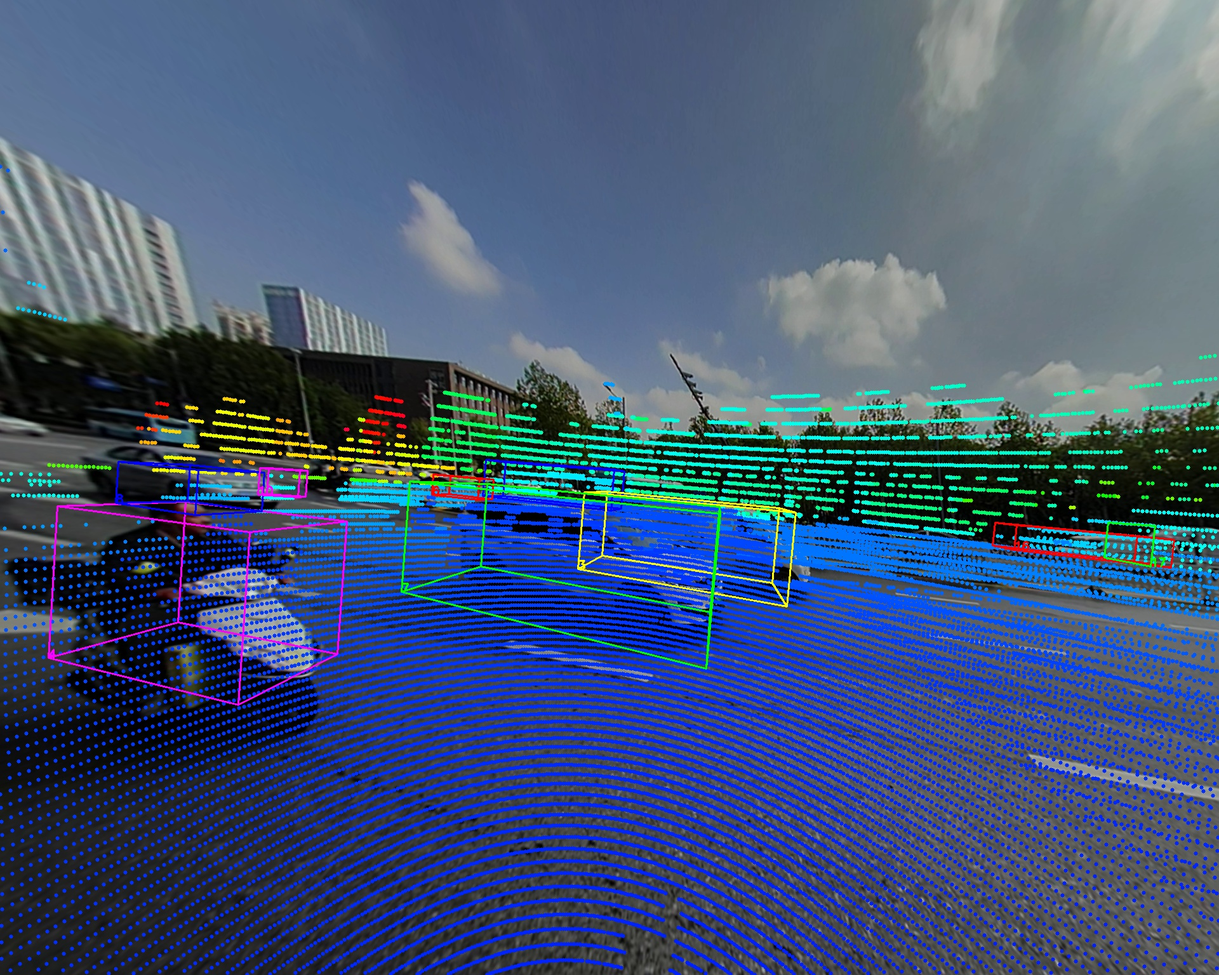
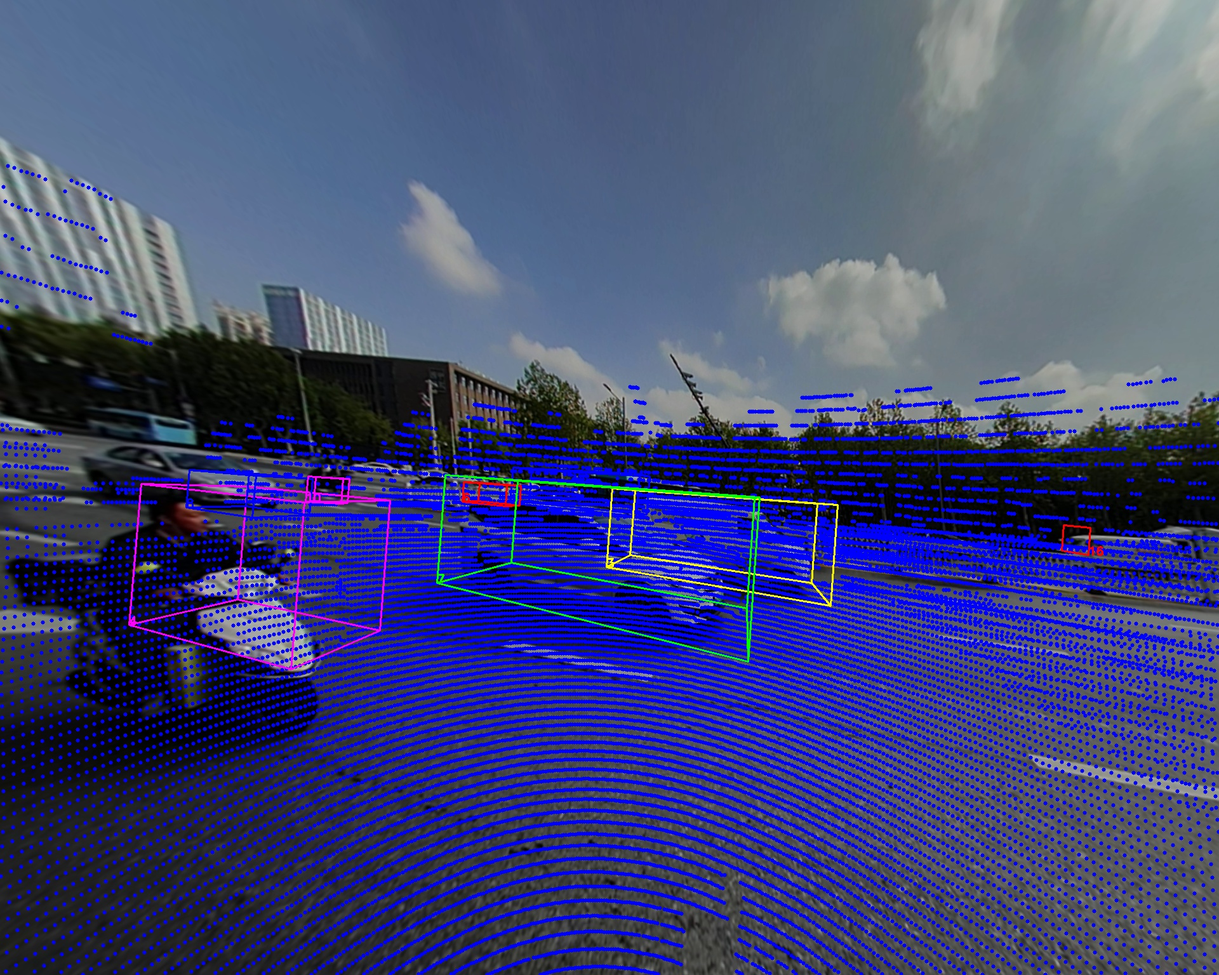
10.10

diff --git a/output/final-extrinsic.py b/output/final-extrinsic.py
@@ -53,8 +53,8 @@ lidar2m32 = load_json('lidar2m32.json')
 
 # 定义键和输出路径列表
 camera_keys = ["CAM_FRONT_8M", "CAM_FRONT_3M", "CAM_LEFT_3M", "CAM_RIGHT_3M","CAM_BACK_3MH"]
-lidar_keys = ["LIDAR_FRONT","LIDAR_BACK"]
-output_keys = ["CAM_FRONT_8M", "CAM_FRONT_3M", "CAM_LEFT_3M", "CAM_RIGHT_3M","CAM_BACK_3MH","LIDAR_FRONT", "LIDAR_BACK","LIDAR_ZHU"]
+lidar_keys = ["LIDAR_FRONT","LIDAR_REAR"]
+output_keys = ["CAM_FRONT_8M", "CAM_FRONT_3M", "CAM_LEFT_3M", "CAM_RIGHT_3M","CAM_BACK_3MH","LIDAR_FRONT", "LIDAR_REAR","LIDAR_ZHU"]
 output_path = "final-extrinsic.json"
 
 # 清空输出文件

diff --git a/camera_to_lidar/lidar2camera_calib.md b/camera_to_lidar/lidar2camera_calib.md
@@ -146,7 +146,7 @@ python transfer-files.py --sort fisheye-left
 
 --sort 为要进行标定的相机名称
 
-### 3.1手动标定
+### 3.1标定代码编译
 
 进入camera_to_lidar/lidar2camera/manual_calib文件夹，如果需要重新编译
 
@@ -172,13 +172,19 @@ docker run -it \
 xiaokyan/opencalib:v1
 ```
 
-先进入camera_to_lidar/lidar2camera/auto_calib文件夹，运行下列程序选择图片的2d特征点，同时打开cloudcompare选择对应的三维点
+同理进入camera_to_lidar/lidar2camera/auto_calib文件夹进行编译
+
+
+
+### 3.2 标定流程
+
+1.先进入camera_to_lidar/lidar2camera/auto_calib文件夹，运行下列程序选择图片的2d特征点，同时打开cloudcompare选择对应的三维点
 
 ```
-./run_point_selector 0
+./run_point_selector.sh 0
 ```
 
-其中0代表所选的帧数，2d点和3d点位置保存在data/所选帧数文件夹下，运行下列程序获得合并信息后的文件
+其中0代表所选的帧数，2d点保存在data/所选帧数文件夹/image.json下，3d点位置保存在data/所选帧数文件夹/lidar.txt下，运行下列程序获得合并信息后的文件
 
 ```
 ./run_merge.sh 0
@@ -191,25 +197,14 @@ xiaokyan/opencalib:v1
 python update.py
 ```
 
-然后运行程序开始手工标定
+2.然后进入camera_to_lidar/lidar2camera/manual_calib文件夹运行程序开始手工标定,并更新到所有待标矩阵的外参文件
 
 ```
 ./manual-calib.sh 0
-```
-
-命令中的数字代表第几帧，实际运行时全部替换为实际选中的帧数，运行完成后camera_to_lidar/lidar2camera/manual_calib/calibration_0.txt中的矩阵就是粗标定好的激光雷达到相机的矩阵，运行下面的程序把它更新到所有数据的初始外参程序中
-
-```
 python update.py
 ```
 
-### 3.2 自动标定
-
-进入camera_to_lidar/lidar2camera/auto_calib文件夹，
-
-如果需要编译，操作如上
-
-运行程序自动标定
+3.然后进入auto_calib文件夹基于已有矩阵进行优化标定
 
 ```
 ./run_calibrate.sh 0 --use-tr-initial
@@ -217,6 +212,8 @@ python update.py
 ```
 
 其中 --use-tr-initial代表使用已经标好的矩阵作为初始化矩阵进行标定
+
+然后重复2，3不断优化至合适
 
 ## 4数据保存
 
